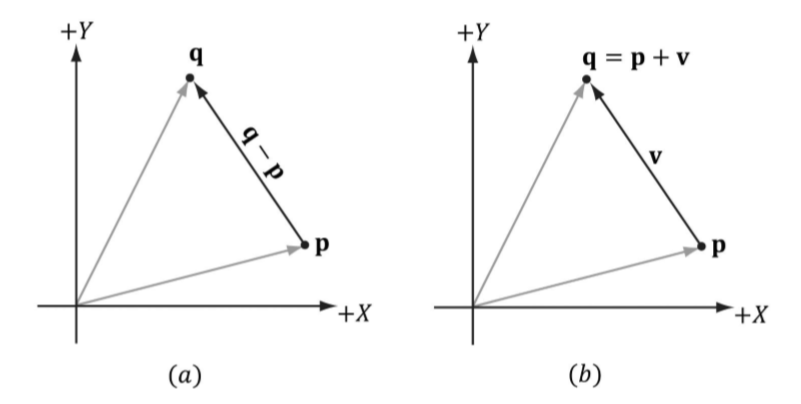
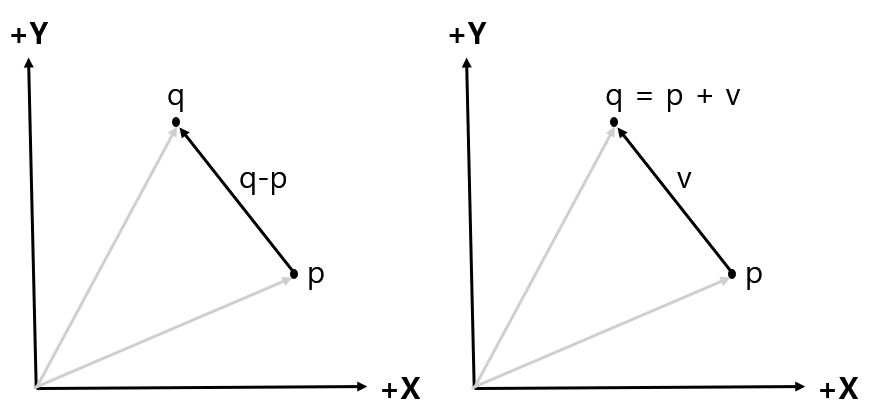
* 벡터 수정

diff --git a/Assets/Tutorials/vector_algebra/vector_algebra.md b/Assets/Tutorials/vector_algebra/vector_algebra.md
@@ -45,9 +45,9 @@ u-v = u +(-v) = u_{x} - v_{x}, u_{y} - v_{y}, u_{z} - v_{z}
 u - v = u + (-v) = (1, 2, 3) + (-1, -2, -3) = (0, 0, 0)
 ```
 
-### 벡터와 스칼라의 곱셈 <br>
+### 벡터와 스칼라의 곱셈
 
-![](./Images/scalar_mul.PNG) <br>
+![](./Images/scalar_mul.PNG)
 
 ```
 ku = (ku_{x}, ku_{y}, ku_{z})
@@ -70,7 +70,7 @@ kw = 2(3, 0, -2) = (6, 0, -4);
 벡터 v가 n 개의 원소를 가지고 있으면 n 차원 벡터라고 한다. n 차원 벡터를 구성하는 원소는
 `v_{0}, v_{1},...,v_{n-1}` 과 같이 나타낼 수 있다. n차원의 벡터 v의 크기를 구하는 공식은 다음과 같다.
 
-![](./Images/vector_mag_formula.png) <br>
+![](./Images/vector_mag_formula.png)
 
 ```
 ||v|| = \sqrt{v_{0} + v_{1}^{2} ... v_{n}^{2}}
@@ -89,12 +89,12 @@ kw = 2(3, 0, -2) = (6, 0, -4);
 
 크기가 1인 벡터를 단위벡터라 하고 다음과 같이 표기한다.
 
-![](./Images/unit_vec.PNG) <br>
+![](./Images/unit_vec.PNG)
 
 단위 벡터는 벡터의 각 요소를 크기로 나눔으로서 구할 수 있다. 
 이 과정을 정규화(Normalize)라고 한다.
 
-![](./Images/unit_vec_formula.PNG) <br>
+![](./Images/unit_vec_formula.PNG)
 
 ```
 u = \frac{u}{||u||} = (\frac{x}{||u||},\frac{y}{||u||},\frac{z}{||u||})
@@ -126,7 +126,7 @@ u\cdot v = u_{x}v_{x} + u_{y}v_{y} + u_{z}v_{z}
 u \cdot v = ||u||||v||cos\theta
 ```
 
-내적은 두벡터의 크기와 사이각의 코사인값이 모두 비례 관계라는 사실이 중요하다.
+내적은 두벡터의 크기와 사이각의 코사인값이 모두 비례 관계라는 사실이 중요하다. 또한 내적의 값이 0이면 두 벡터가 수직임을 판단할 수 있다.
 
 # 외적
 
@@ -143,11 +143,11 @@ w = u \times v = (u_{y}v_{Z} - u_{z}v_{y}, u_{z}v_{x} - u_{x}v_{z}, u_{x}v_{y} -
 
 예를 들어 두벡터를 `u = (2, 1, 3), v = (2, 0, 0)` 와 같이 정의하고 다음과 같이 구해보자.
 
-![](./Images/cross_prod2.PNG)<br>
+![](./Images/cross_prod2.PNG)
 
 위 벡터와 다른 두벡터는 수직 이기 때문에 내적의 결과는 0과 같다.
 
-![](./Images/cross_prod4.PNG) <br>
+![](./Images/cross_prod4.PNG)
 
 외적은 교환법칙이 성립하지 않는다.
 
@@ -155,21 +155,25 @@ w = u \times v = (u_{y}v_{Z} - u_{z}v_{y}, u_{z}v_{x} - u_{x}v_{z}, u_{x}v_{y} -
 
 # 점
 
-점을 벡터와 연산하기 위해 어떠한 개념이 필요한 걸까?
-점을 벡터와 연산을 하게 되면 부작용이 있다.
-아핀공간은왜필요한가???
+점은 크기는 없고 위치만 존재하는 개체를 뜻한다.
+
+## 위치벡터
+
+벡터를 사용하여 공간상에서 위치(점)를 표현할 수 있다. 이 벡터를 위치벡터라 부른다.
+
+위치벡터는 좌표의 원점 `'O'` 를 시점으로 공간내의 임의의 한 점 `'p'` 를 종점으로 하는 벡터이다. 이 때 벡터의 머리끝의 좌표는 곧 하나의 점을 표현하므로 위치를 나타내는데 사용이 가능하다. 
+
+![](./Images/vec_pos.PNG)
 
 ![](./Images/vec_pos2.PNG)
 
-다시 정리
+위 그림은 위치벡터를 이용한 연산들의 예이다.
+그림 왼쪽의 경우 점 q에 대한 위치벡터와 점 p에 대한 위치벡터를 빼면 q-p의 벡터를 알 수 있다. 그림 오른쪽의 경우 점 p에 대한 위치벡터에 벡터 v를 덧셈하면 p의 위치를 v만큼 옮겼을 때 도달하는 점 q의 위치라고 정의가 가능하다.
 
-------------
+## 점과 벡터
 
-벡터를 사용하여 공간상에서 위치를 나타낼 수 있다. 이 벡터를 위치벡터라 부른다.
+벡터는 어디에 위치해 있던지 크기와 방향만 같다면 모두 같은 벡터로 취급한다. 즉, 벡터만으로는 위치라는 개념을 표현할 수 없다.
 
-위치 벡터는 원점 `'O'`를 시점으로 하는 벡터를 위치 벡터라 한다. 공간이나 평면상에서 같은 방향과 크기를 가지를 벡터는 무수히 많지만 위치 벡터는 유일하게 1개만 존재하게 되어서 특정한 점의 위치를 벡터로 사용하는 것이 가능해진다.
+이를 극복하고자 고안된 것이 바로 아핀 공간이다.
 
-
-
-이 경우 원점에서 뻗은 위치벡터를 이용하여 벡터나 점의 위치를 알 수 있다.
-그림 (a)의 경우 점 q에 대한 위치벡터와 점 p에 대한 위치벡터를 빼면 q-p의 벡터를 알 수 있다. 그림 (b)의 경우 점 p에 대한 위치벡터에 q-p로 부터 얻은 백터를 덧셈하면 점q의 위치를 알 수 있다.
+아핀 공간에서는 벡터에 위치표현을 위한 점을 추가하여 해당 벡터의 크기, 방향뿐만 아니라 위치까지도 표현할 수 있다.
